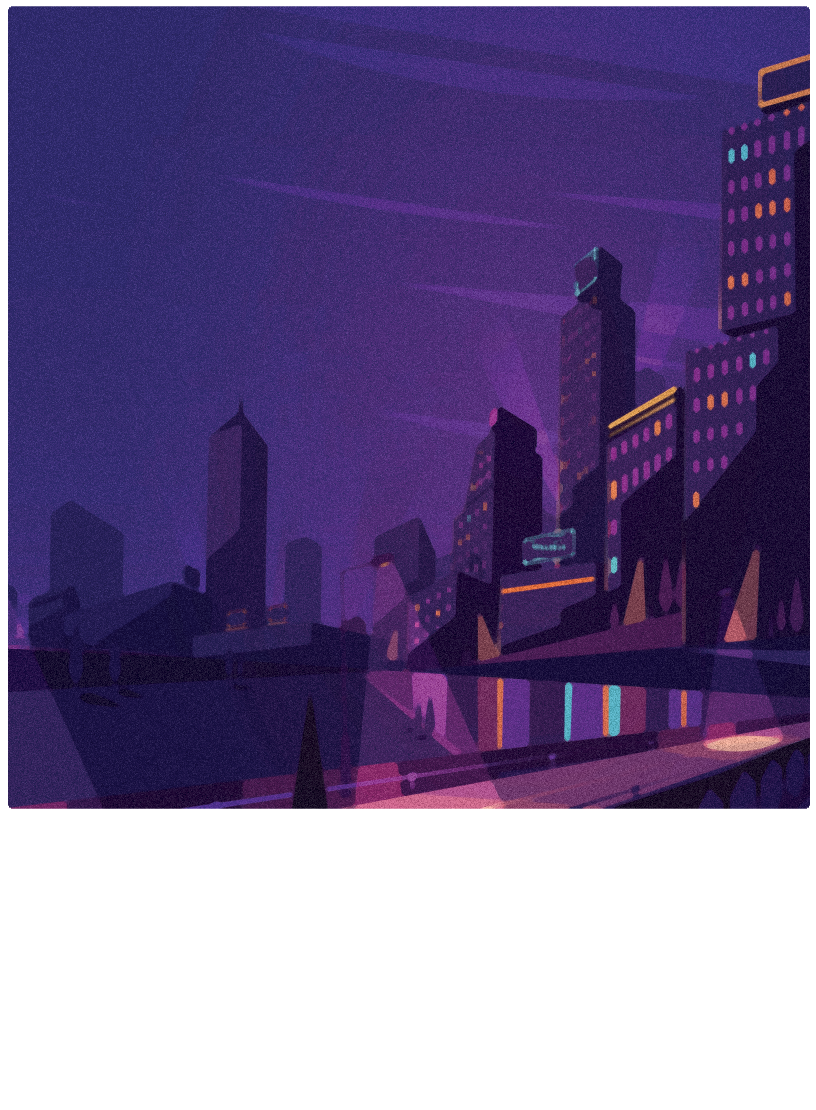
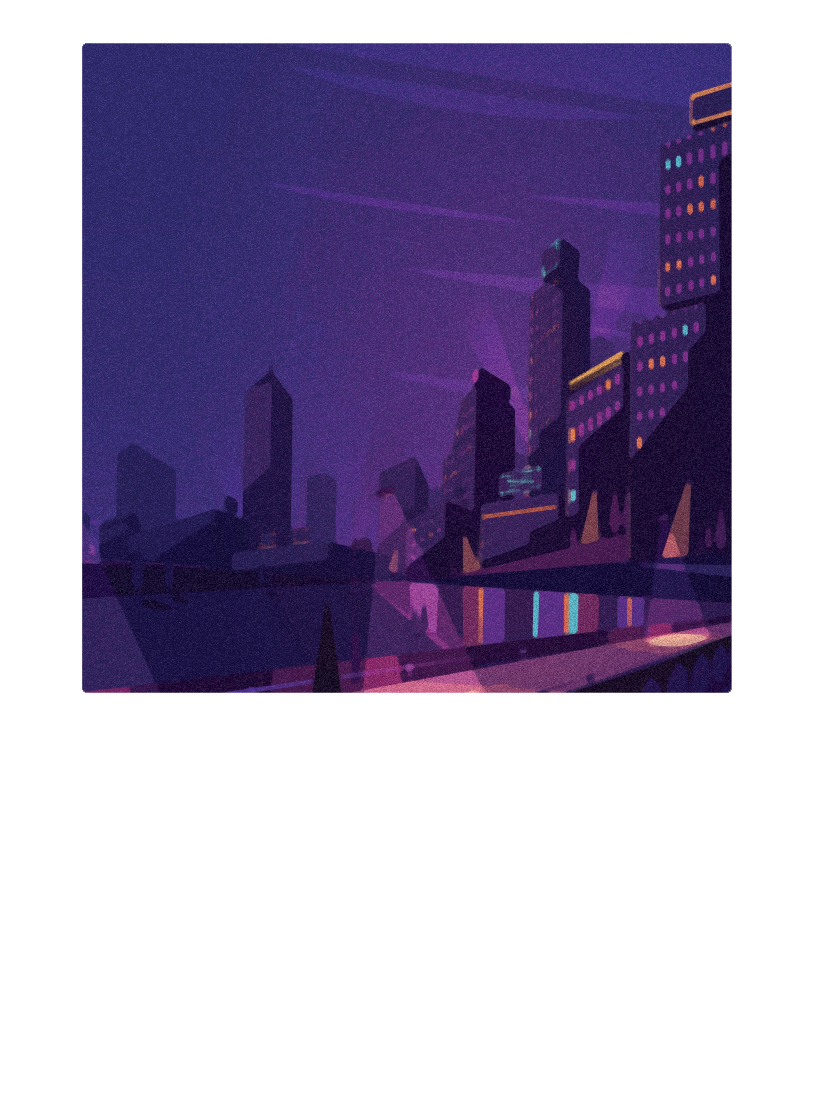
carte daylights

diff --git a/src/components/TiltCardWidget/TiltCardWidget.js b/src/components/TiltCardWidget/TiltCardWidget.js
@@ -11,7 +11,7 @@ function TiltCardWidget({
     maxTiltAngleY = 10,
     foregroundTransformCSS = "translateZ(40px) translateY(-25px) scale(1.1)",
     middlegroundTransformCSS = "translateZ(25px) scale(1.2)",
-    backgroundTransformCSS = "translateZ(0px)",
+    backgroundTransformCSS = "translateZ(0px) translateY(-20px) scale(1.2)",
  }) {
       return (
         <div>

diff --git a/src/pages/daylights/daylights.js b/src/pages/daylights/daylights.js
@@ -11,7 +11,8 @@ function Daylights() {
             fg={foreground}
             mg={middleground} 
             bg={background}
-            width={ConstantsPageCarte.TiltCardWidget_width} /> 
+            width={ConstantsPageCarte.TiltCardWidget_width} 
+            backgroundTransformCSS="translateZ(0px) scale(1.2)"/> 
     );
 }
 
